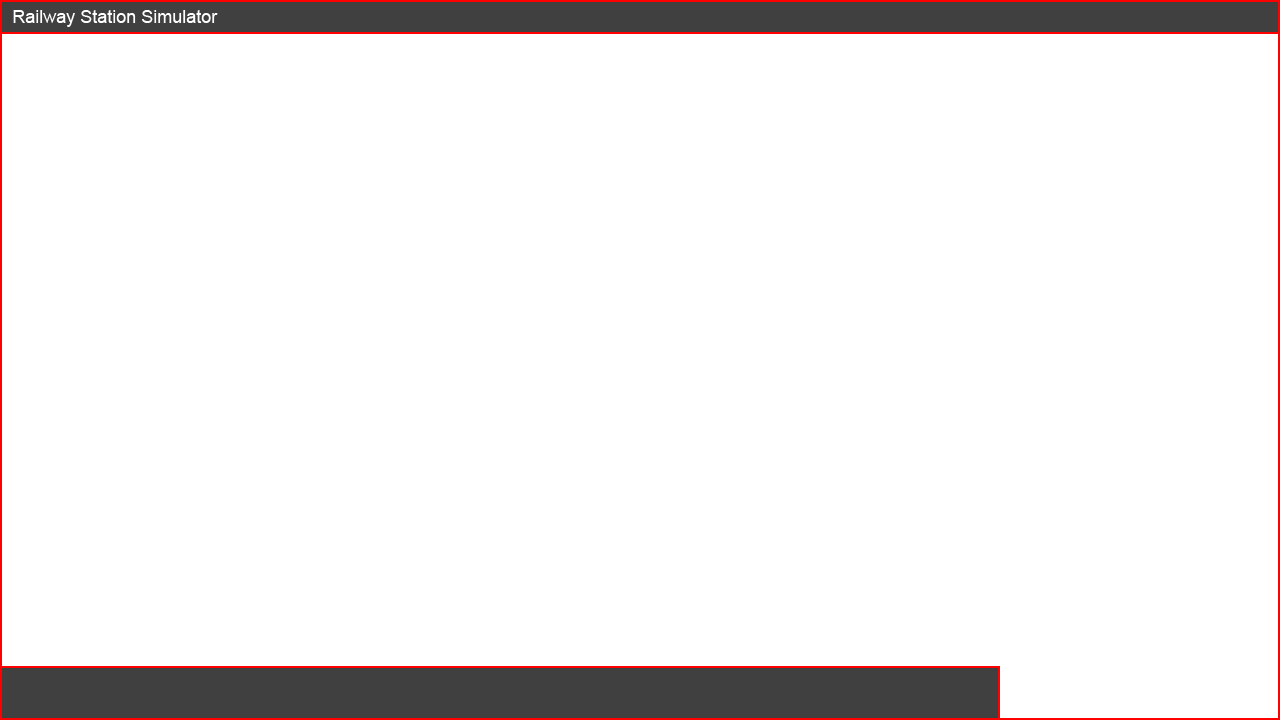
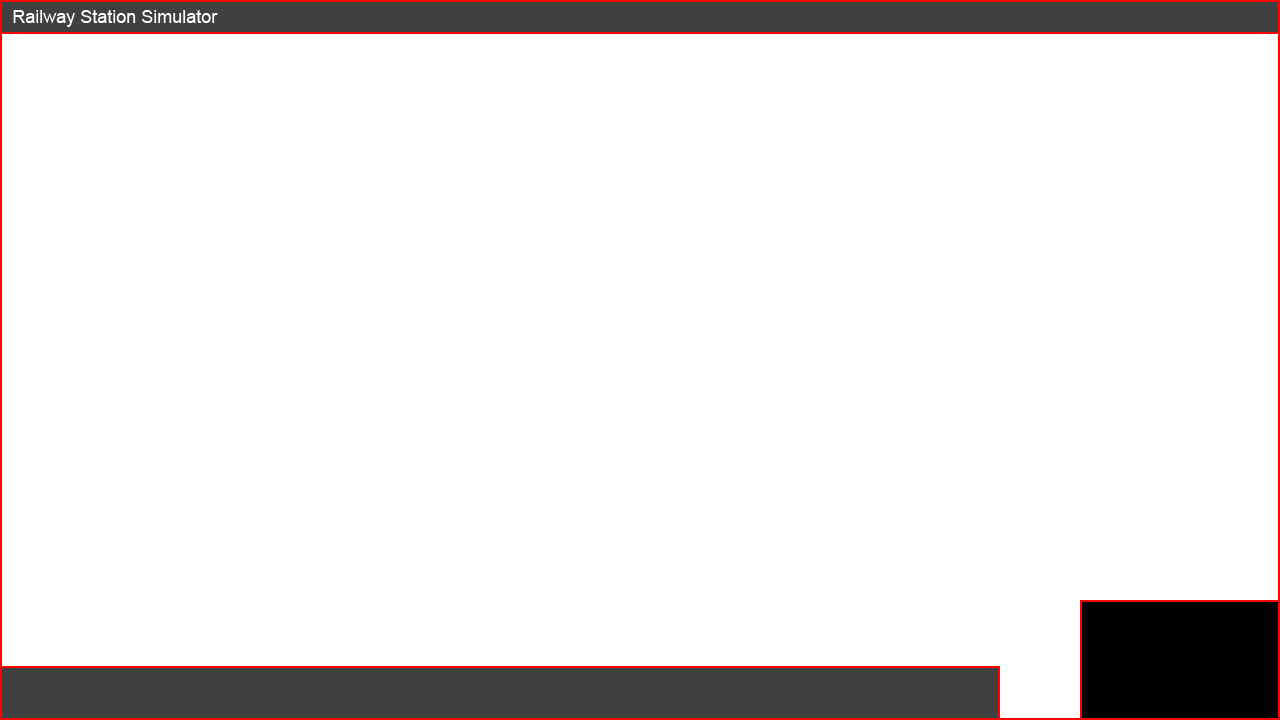
made game time digital

Changed region(s): [[0.8438, 0.825, 1.0, 1.0]]

diff --git a/ingame_time.py b/ingame_time.py
@@ -16,46 +16,36 @@ def _game_is_not_paused(fn):
 
 
 class InGameTime(GameObject):
-    def __init__(self, batch, clock_face_group, day_text_group, minute_hand_group, hour_hand_group):
+    def __init__(self, batch, day_text_group):
         super().__init__()
         self.logger = logging.getLogger('game.in-game_time')
         self.logger.debug('------- START INIT -------')
         self.config = configparser.RawConfigParser()
         self.logger.debug('config parser created')
-        self.clock_face_image = pyglet.image.load('img/clock_face.png')
-        self.clock_face_image.anchor_x = self.clock_face_image.width // 2 + 1
-        self.clock_face_image.anchor_y = self.clock_face_image.height // 2 + 1
-        self.clock_face_sprite = pyglet.sprite.Sprite(self.clock_face_image,
-                                                      x=self.c['graphics']['screen_resolution'][0] - 101,
-                                                      y=101, batch=batch, group=clock_face_group)
-        self.logger.debug('loaded clock face image: img/clock_face.png')
-        self.minute_hand_image = pyglet.image.load('img/minute_hand.png')
-        self.minute_hand_image.anchor_x = self.minute_hand_image.width // 2 + 1
-        self.minute_hand_image.anchor_y = self.minute_hand_image.height // 2 + 1
-        self.minute_hand_sprite = pyglet.sprite.Sprite(self.minute_hand_image,
-                                                       x=self.c['graphics']['screen_resolution'][0] - 101,
-                                                       y=101, batch=batch, group=minute_hand_group)
-        self.logger.debug('loaded minute hand image: img/minute_hand.png')
-        self.hour_hand_image = pyglet.image.load('img/hour_hand.png')
-        self.hour_hand_image.anchor_x = self.hour_hand_image.width // 2 + 1
-        self.hour_hand_image.anchor_y = self.hour_hand_image.height // 2 + 1
-        self.hour_hand_sprite = pyglet.sprite.Sprite(self.hour_hand_image,
-                                                     x=self.c['graphics']['screen_resolution'][0] - 101,
-                                                     y=101, batch=batch, group=hour_hand_group)
-        self.logger.debug('loaded hour hand image: img/hour_hand.png')
         self.epoch_timestamp = None
         self.day = None
         self.hour = None
+        self.hour_string = ''
         self.minute = None
+        self.minute_string = ''
+        self.second = None
+        self.second_string = ''
         self.logger.debug('created text object for days counter')
         self.read_state()
-        self.day_text = pyglet.text.Label('Day {}'.format(self.day),
-                                          font_name=self.c['graphics']['font_name'],
+        self.day_text = pyglet.text.Label('DAY {}'.format(self.day),
+                                          font_name='Courier New', bold=True,
                                           font_size=self.c['graphics']['day_font_size'],
                                           color=self.c['graphics']['day_text_color'],
-                                          x=self.c['graphics']['screen_resolution'][0] - 101, y=70,
+                                          x=self.c['graphics']['screen_resolution'][0] - 100, y=85,
                                           anchor_x='center', anchor_y='center',
                                           batch=batch, group=day_text_group)
+        self.time_text = pyglet.text.Label('0',
+                                           font_name='Courier New', bold=True,
+                                           font_size=self.c['graphics']['day_font_size'],
+                                           color=self.c['graphics']['day_text_color'],
+                                           x=self.c['graphics']['screen_resolution'][0] - 100, y=45,
+                                           anchor_x='center', anchor_y='center',
+                                           batch=batch, group=day_text_group)
         self.logger.debug('------- END INIT -------')
         self.logger.warning('time init completed')
 
@@ -72,10 +62,26 @@ class InGameTime(GameObject):
         self.logger.debug('epoch_timestamp: {}'.format(self.epoch_timestamp))
         self.day = 1 + self.epoch_timestamp // 345600
         self.logger.debug('day: {}'.format(self.day))
-        self.hour = float(self.epoch_timestamp % 345600) / float(14400)
+        self.hour = 12 + (self.epoch_timestamp % 345600) // 14400
         self.logger.debug('hour: {}'.format(self.hour))
-        self.minute = float(self.hour % 14400) / float(240)
+        self.minute = ((self.epoch_timestamp % 345600) % 14400) // 240
         self.logger.debug('minute: {}'.format(self.minute))
+        self.second = (((self.epoch_timestamp % 345600) % 14400) % 240) // 4
+        if self.second < 10:
+            self.second_string = '0' + str(self.second)
+        else:
+            self.second_string = str(self.second)
+
+        if self.minute < 10:
+            self.minute_string = '0' + str(self.minute)
+        else:
+            self.minute_string = str(self.minute)
+
+        if self.hour < 10:
+            self.hour_string = '0' + str(self.hour)
+        else:
+            self.hour_string = str(self.hour)
+
         self.logger.debug('------- END READING STATE -------')
         self.logger.info('time state initialized')
 
@@ -94,22 +100,41 @@ class InGameTime(GameObject):
         self.logger.info('time state saved to file user_cfg/epoch_time.ini')
 
     def update_sprite(self, base_offset):
-        self.day_text.text = 'Day {}'.format(self.day)
-        minute_hand_rotate_angle = self.minute / float(60) * float(360)
-        self.minute_hand_sprite.rotation = minute_hand_rotate_angle
-        hour_hand_rotate_angle = self.hour / float(12) * float(360)
-        self.hour_hand_sprite.rotation = hour_hand_rotate_angle
+        self.time_text.text = self.hour_string + ':' + self.minute_string + ':' + self.second_string
 
     @_game_is_not_paused
     def update(self, game_paused):
         self.logger.debug('------- TIME UPDATE START -------')
         self.epoch_timestamp += 1
-        self.logger.debug('epoch_timestamp: {}'.format(self.epoch_timestamp))
-        self.day = 1 + self.epoch_timestamp // 345600
-        self.logger.debug('day: {}'.format(self.day))
-        self.hour = float(self.epoch_timestamp % 345600) / float(14400)
-        self.logger.debug('hour: {}'.format(self.hour))
-        self.minute = float((self.epoch_timestamp % 345600) % 14400) / float(240)
-        self.logger.debug('minute: {}'.format(self.minute))
+        self.second = (self.epoch_timestamp // 4) % 60
+        if self.second < 10:
+            self.second_string = '0' + str(self.second)
+        else:
+            self.second_string = str(self.second)
+
+        if self.epoch_timestamp % 240 == 0:
+            self.minute += 1
+            if self.minute % 60 == 0:
+                self.minute = 0
+
+            if self.minute < 10:
+                self.minute_string = '0' + str(self.minute)
+            else:
+                self.minute_string = str(self.minute)
+
+        if self.epoch_timestamp % 14400 == 0:
+            self.hour += 1
+            if self.hour % 24 == 0:
+                self.hour = 0
+
+            if self.hour < 10:
+                self.hour_string = '0' + str(self.hour)
+            else:
+                self.hour_string = str(self.hour)
+
+        if self.epoch_timestamp % 345600 == 0:
+            self.day += 1
+            self.day_text.text = 'DAY {}'.format(self.day)
+
         self.logger.debug('------- TIME UPDATE END -------')
         self.logger.info('time updated')

diff --git a/rssim.py b/rssim.py
@@ -2223,7 +2223,7 @@ class RSSim(Game):
                              x=self.c['graphics']['screen_resolution'][0] // 2 - saved_onboarding_image.width // 2,
                              y=self.c['graphics']['screen_resolution'][1] // 2 - saved_onboarding_image.height // 2,
                              tip_type='game_saved', batch=self.batch,
-                             group=self.top_bottom_bars_clock_face_ordered_group,
+                             group=self.top_bottom_bars_ordered_group,
                              viewport_border_group=self.buttons_general_borders_day_text_ordered_group)
         self.objects.append(self.saved_onboarding_tip)
         self.mini_map_tip.update_image(pyglet.image.load('img/mini_map/{}/mini_map.png'
@@ -2262,37 +2262,33 @@ class RSSim(Game):
             self.logger.critical('------- GAME SAVE END -------')
 
         self.objects.append(InGameTime(batch=self.batch,
-                                       clock_face_group=self.top_bottom_bars_clock_face_ordered_group,
-                                       day_text_group=self.buttons_general_borders_day_text_ordered_group,
-                                       minute_hand_group=self.buttons_text_minute_hand_ordered_group,
-                                       hour_hand_group=self.buttons_borders_hour_hand_ordered_group))
+                                       day_text_group=self.buttons_general_borders_day_text_ordered_group))
         self.logger.debug('time appended to global objects list')
         self.objects.append(TopAndBottomBar(batch=self.batch,
-                                            bar_group=self.top_bottom_bars_clock_face_ordered_group,
-                                            border_group=self.buttons_general_borders_day_text_ordered_group))
+                                            bar_group=self.top_bottom_bars_ordered_group,))
         self.logger.debug('bottom bar appended to global objects list')
         stop_button = Button(position=(890, 7), button_size=(100, 40), text=['Pause', 'Resume'],
                              on_click=[pause_game, resume_game], draw_only_if_game_paused=False,
                              batch=self.batch, button_group=self.buttons_general_borders_day_text_ordered_group,
-                             text_group=self.buttons_text_minute_hand_ordered_group,
-                             borders_group=self.buttons_borders_hour_hand_ordered_group)
+                             text_group=self.buttons_text_and_borders_ordered_group,
+                             borders_group=self.buttons_text_and_borders_ordered_group)
         save_button = Button(position=(780, 7), button_size=(100, 40), text=['Save', ], on_click=[save_game, ],
                              draw_only_if_game_paused=True,
                              batch=self.batch, button_group=self.buttons_general_borders_day_text_ordered_group,
-                             text_group=self.buttons_text_minute_hand_ordered_group,
-                             borders_group=self.buttons_borders_hour_hand_ordered_group)
+                             text_group=self.buttons_text_and_borders_ordered_group,
+                             borders_group=self.buttons_text_and_borders_ordered_group)
         close_button = Button(position=(self.c['graphics']['screen_resolution'][0] - 34,
                                         self.c['graphics']['screen_resolution'][1] - 34), button_size=(34, 34),
                               text=['X', ], on_click=[close_game, ], draw_only_if_game_paused=False,
                               batch=self.batch, button_group=self.buttons_general_borders_day_text_ordered_group,
-                              text_group=self.buttons_text_minute_hand_ordered_group,
-                              borders_group=self.buttons_borders_hour_hand_ordered_group)
+                              text_group=self.buttons_text_and_borders_ordered_group,
+                              borders_group=self.buttons_text_and_borders_ordered_group)
         iconify_button = Button(position=(self.c['graphics']['screen_resolution'][0] - 66,
                                           self.c['graphics']['screen_resolution'][1] - 34), button_size=(34, 34),
                                 text=['_', ], on_click=[iconify_game, ], draw_only_if_game_paused=False,
                                 batch=self.batch, button_group=self.buttons_general_borders_day_text_ordered_group,
-                                text_group=self.buttons_text_minute_hand_ordered_group,
-                                borders_group=self.buttons_borders_hour_hand_ordered_group)
+                                text_group=self.buttons_text_and_borders_ordered_group,
+                                borders_group=self.buttons_text_and_borders_ordered_group)
         self.on_mouse_press_handlers.append(stop_button.handle_mouse_press)
         self.on_mouse_press_handlers.append(save_button.handle_mouse_press)
         self.on_mouse_press_handlers.append(close_button.handle_mouse_press)

diff --git a/game.py b/game.py
@@ -56,11 +56,10 @@ class Game:
         self.signals_and_trains_ordered_group = pyglet.graphics.OrderedGroup(1)
         self.boarding_lights_ordered_group = pyglet.graphics.OrderedGroup(2)
         self.twilight_ordered_group = pyglet.graphics.OrderedGroup(3)  # reserved for future use
-        self.top_bottom_bars_clock_face_ordered_group = pyglet.graphics.OrderedGroup(4)
+        self.top_bottom_bars_ordered_group = pyglet.graphics.OrderedGroup(4)
         self.buttons_general_borders_day_text_ordered_group = pyglet.graphics.OrderedGroup(5)
-        self.buttons_text_minute_hand_ordered_group = pyglet.graphics.OrderedGroup(6)
-        self.buttons_borders_hour_hand_ordered_group = pyglet.graphics.OrderedGroup(7)
-        self.loading_shadow_ordered_group = pyglet.graphics.OrderedGroup(8)
+        self.buttons_text_and_borders_ordered_group = pyglet.graphics.OrderedGroup(6)
+        self.loading_shadow_ordered_group = pyglet.graphics.OrderedGroup(7)
         self.fade_vertex = self.batch.add(4, pyglet.gl.GL_QUADS, self.loading_shadow_ordered_group,
                                           ('v2i/static', (0, 0, self.c['graphics']['screen_resolution'][0], 0,
                                                           self.c['graphics']['screen_resolution'][0],
@@ -83,7 +82,7 @@ class Game:
                                     y=self.c['graphics']['screen_resolution'][1]
                                     - self.c['graphics']['top_bar_height'] // 2,
                                     anchor_x='right', anchor_y='center',
-                                    batch=self.batch, group=self.buttons_text_minute_hand_ordered_group)
+                                    batch=self.batch, group=self.buttons_text_and_borders_ordered_group)
 
         self.surface.set_icon(pyglet.image.load('icon.ico'))
         self.logger.debug('created screen with resolution {}'
@@ -107,7 +106,7 @@ class Game:
                              y=self.c['graphics']['screen_resolution'][1] - self.c['graphics']['top_bar_height']
                              - 4 - mini_map_image.height,
                              tip_type='mini_map', batch=self.batch,
-                             group=self.top_bottom_bars_clock_face_ordered_group,
+                             group=self.top_bottom_bars_ordered_group,
                              viewport_border_group=self.buttons_general_borders_day_text_ordered_group)
         self.mini_map_timer = 0
         self.dispatcher = None

diff --git a/top_and_bottom_bar.py b/top_and_bottom_bar.py
@@ -6,7 +6,7 @@ from game_object import GameObject
 
 
 class TopAndBottomBar(GameObject):
-    def __init__(self, batch, bar_group, border_group):
+    def __init__(self, batch, bar_group):
         super().__init__()
         self.logger = logging.getLogger('game.top_and_bottom_bar')
         self.logger.debug('------- START INIT -------')
